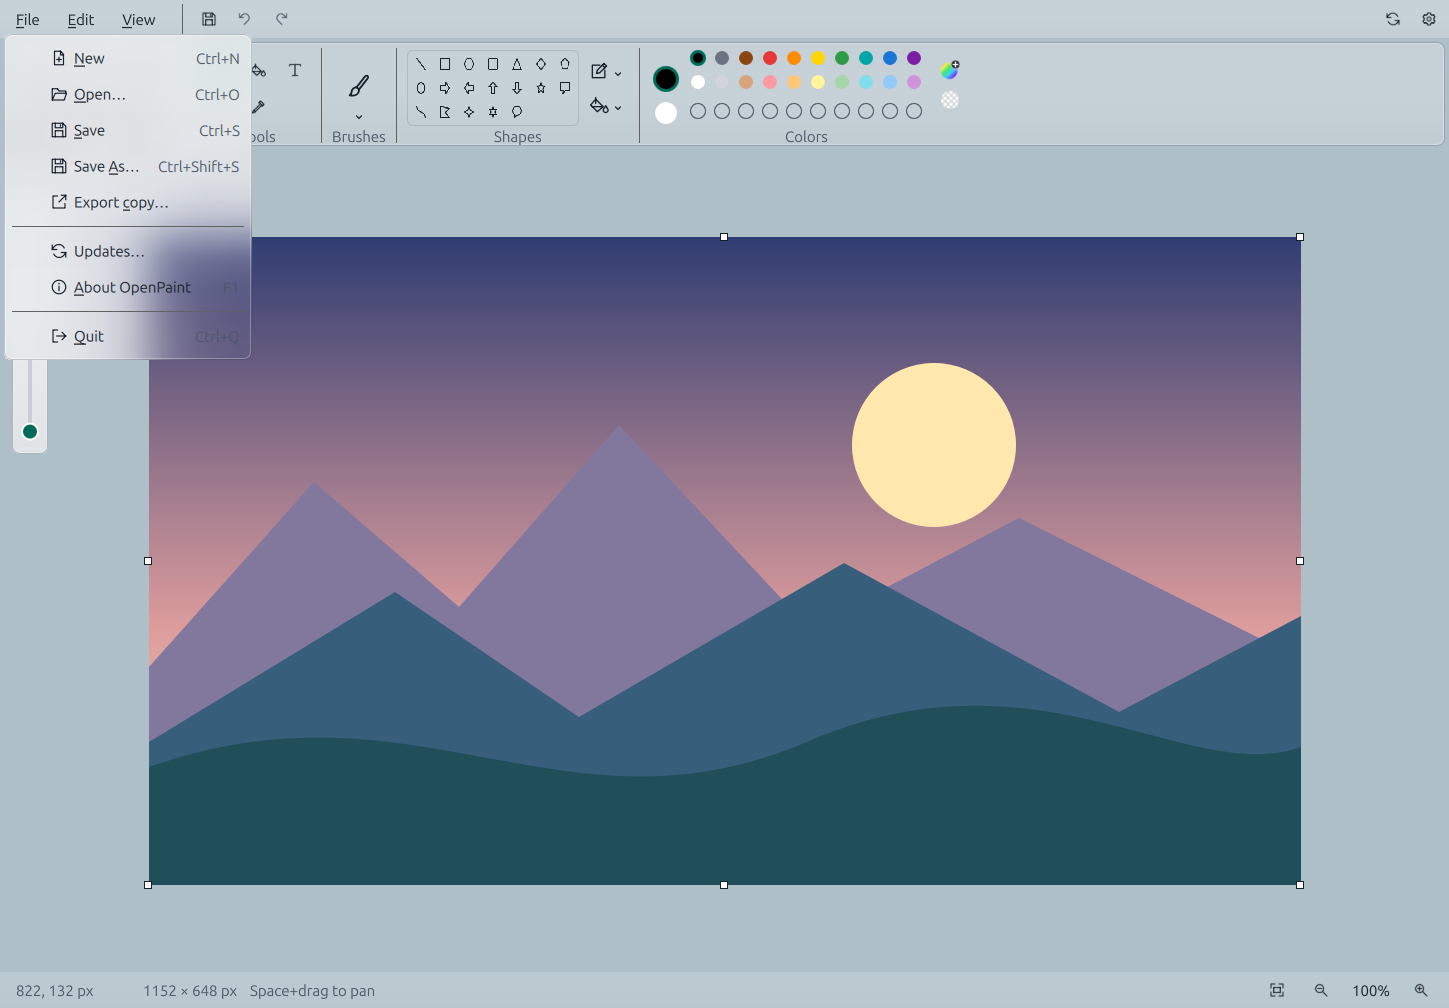
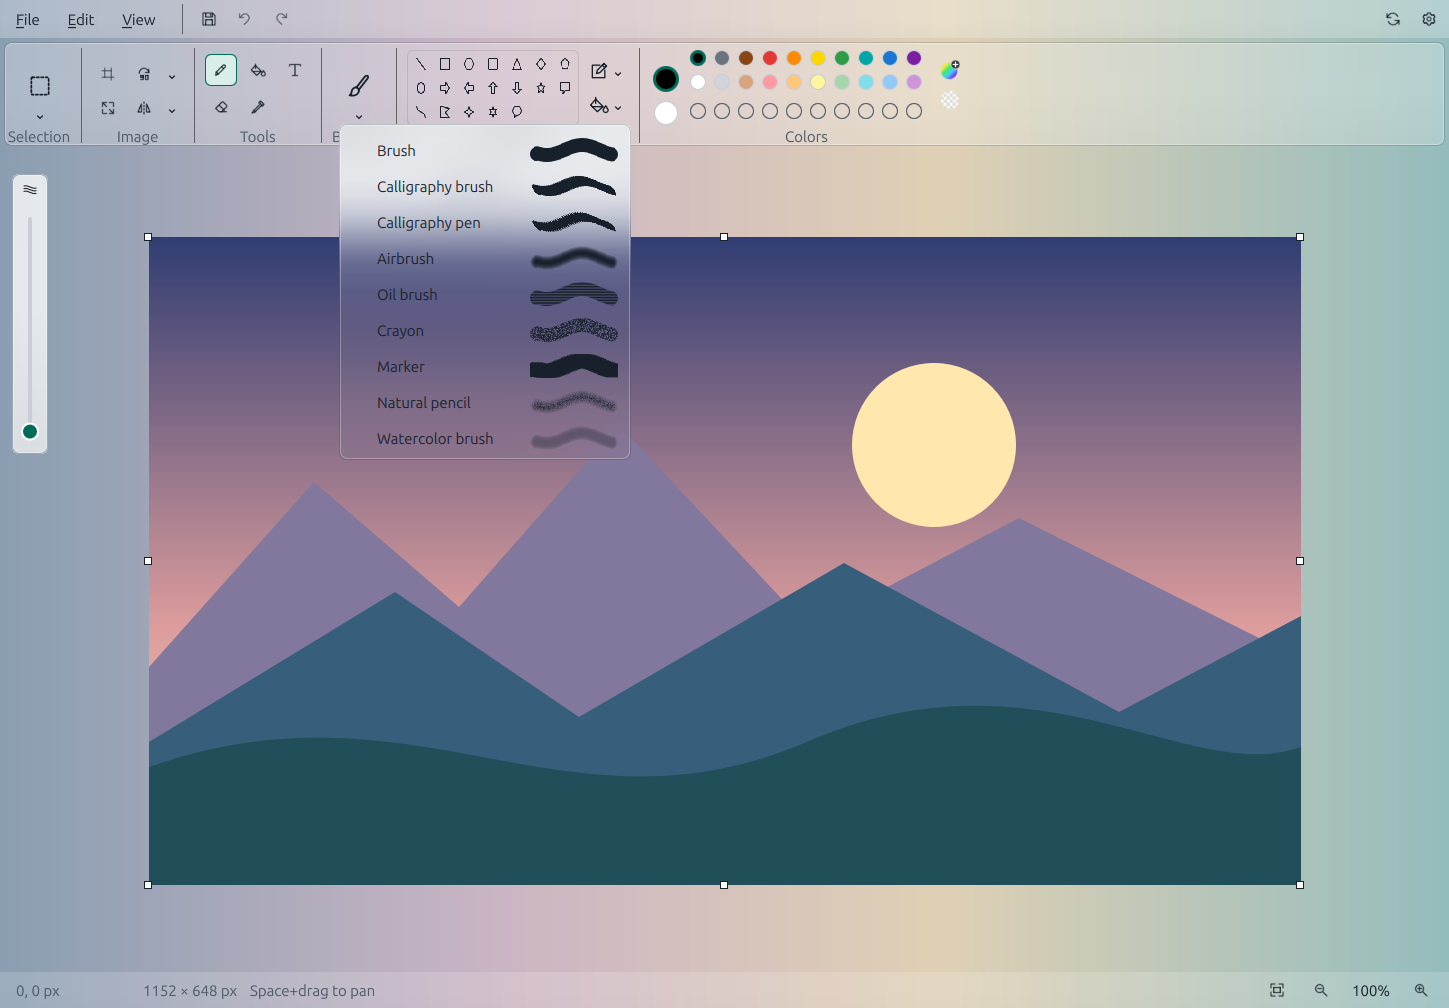
Polish frosted controls and persist theme preferences

diff --git a/qml/Main.qml b/qml/Main.qml
@@ -443,7 +443,7 @@ ApplicationWindow {
             text: qsTr("&System")
             checkable: true
             checked: Theme.mode === 0
-            onTriggered: Theme.mode = 0
+            onTriggered: Appearance.themeMode = 0
         }
         Action {
             id: lightThemeAction
@@ -452,7 +452,7 @@ ApplicationWindow {
             text: qsTr("&Light")
             checkable: true
             checked: Theme.mode === 1
-            onTriggered: Theme.mode = 1
+            onTriggered: Appearance.themeMode = 1
         }
         Action {
             id: darkThemeAction
@@ -461,7 +461,7 @@ ApplicationWindow {
             text: qsTr("&Dark")
             checkable: true
             checked: Theme.mode === 2
-            onTriggered: Theme.mode = 2
+            onTriggered: Appearance.themeMode = 2
         }
     }
 
@@ -1354,46 +1354,6 @@ ApplicationWindow {
         z: 2
         enabled: !editor.busy
         property real panelHeight: Math.max(120, Math.min(280, (parent.height - 64) / 2))
-        GlassSurface {
-            objectName: "fillControlsSurface"
-            visible: editor.tool === Editor.Fill
-            width: 132
-            height: fillControls.implicitHeight + 16
-            radius: Theme.surfaceRadius
-            MouseArea {
-                anchors.fill: parent
-                acceptedButtons: Qt.AllButtons
-                onWheel: wheel => wheel.accepted = true
-            }
-            ColumnLayout {
-                id: fillControls
-                anchors.fill: parent
-                anchors.margins: 8
-                Label {
-                    text: qsTr("Fill tolerance")
-                    color: Theme.text
-                }
-                PaintSpinBox {
-                    objectName: "fillTolerance"
-                    visible: editor.tool === Editor.Fill
-                    from: 0
-                    to: 255
-                    value: editor.tolerance
-                    onValueModified: editor.tolerance = value
-                    Accessible.name: qsTr("Fill tolerance")
-                    implicitWidth: 104
-                }
-                PaintCheckBox {
-                    objectName: "fillSmoothEdges"
-                    text: qsTr("Smooth edges")
-                    visible: editor.tool === Editor.Fill
-                    checked: editor.fillSmoothEdges
-                    onToggled: editor.fillSmoothEdges = checked
-                    Accessible.name: qsTr("Smooth same-color fill edges")
-                }
-            }
-        }
-
         ToolSlider {
             visible: editor.tool === Editor.Pencil || editor.tool === Editor.Brush || editor.tool === Editor.Eraser || editor.tool === Editor.Shape
             height: parent.panelHeight

diff --git a/qml/UpdatesDialog.qml b/qml/UpdatesDialog.qml
@@ -25,7 +25,7 @@ PaintDialog {
         Label {
             objectName: "updateIdentity"
             text: qsTr("%1 · %2").arg(AppInfo.channel).arg(AppInfo.installation)
-            color: Theme.secondaryText
+            color: Theme.text
         }
         Label {
             text: AppInfo.instructions
@@ -39,7 +39,7 @@ PaintDialog {
             textFormat: Text.PlainText
             Layout.fillWidth: true
             wrapMode: Text.WordWrap
-            color: Theme.secondaryText
+            color: Theme.text
         }
         RowLayout {
             PaintButton {
@@ -58,7 +58,7 @@ PaintDialog {
             text: qsTr("Checks api.github.com for stable releases. GitHub receives your IP address and ordinary request metadata; no artwork or document information is sent.")
             Layout.fillWidth: true
             wrapMode: Text.WordWrap
-            color: Theme.secondaryText
+            color: Theme.text
         }
         PaintCheckBox {
             objectName: "automaticReleaseChecks"
@@ -71,7 +71,7 @@ PaintDialog {
             text: qsTr("Updates are downloaded and installed manually. A GitHub release may not yet be available in your package manager.")
             Layout.fillWidth: true
             wrapMode: Text.WordWrap
-            color: Theme.secondaryText
+            color: Theme.text
         }
         PaintButton {
             objectName: "viewReleasesButton"
@@ -85,7 +85,7 @@ PaintDialog {
             text: qsTr("Opens GitHub in your browser. GitHub receives ordinary browser request information.")
             Layout.fillWidth: true
             wrapMode: Text.WordWrap
-            color: Theme.secondaryText
+            color: Theme.text
         }
         Label {
             text: AppInfo.releaseUrl.toString()

diff --git a/qml/InlineText.qml b/qml/InlineText.qml
@@ -66,10 +66,26 @@ Rectangle {
         }
         Accessible.name: qsTr("Text on canvas")
         cursorDelegate: Rectangle {
+            id: caret
+            objectName: "textCaret"
+            property bool blinkOn: true
+            Timer {
+                interval: 500
+                repeat: true
+                running: input.activeFocus && box.editor.textReady
+                onTriggered: caret.blinkOn = !caret.blinkOn
+                onRunningChanged: caret.blinkOn = true
+            }
+            Connections {
+                target: input
+                function onCursorPositionChanged() {
+                    caret.blinkOn = true;
+                }
+            }
             width: 1
-            height: input.cursorRectangle.height
+            height: Math.max(1, input.font.pixelSize)
             color: Theme.accent
-            visible: input.cursorVisible
+            visible: input.activeFocus && input.selectionStart === input.selectionEnd && blinkOn
         }
     }
     Rectangle {

diff --git a/qml/GlassSurface.qml b/qml/GlassSurface.qml
@@ -19,7 +19,7 @@ Rectangle {
     // Fixed bars already sit on a tint. Over artwork, retain enough light material
     // to keep dark labels readable even when the blurred source is black.
     readonly property real lightPopupTint: menuSurface ? Math.pow(surfaceAlpha, 5) : 0.18 + 0.82 * surfaceAlpha * surfaceAlpha * surfaceAlpha
-    readonly property real tintAlpha: Theme.dark ? surfaceAlpha : opaqueBackdrop ? lightPopupTint : raisedSurface ? 0.45 + 0.55 * surfaceAlpha * surfaceAlpha : Math.pow(surfaceAlpha, baseTintPower)
+    readonly property real tintAlpha: Theme.dark ? (opaqueBackdrop ? Math.max(0.72, surfaceAlpha) : surfaceAlpha) : opaqueBackdrop ? lightPopupTint : raisedSurface ? 0.45 + 0.55 * surfaceAlpha * surfaceAlpha : Math.pow(surfaceAlpha, baseTintPower)
     radius: Theme.surfaceRadius
     color: Theme.panel
     border.color: Appearance.glassEnabled ? (Theme.dark ? "#687887" : "#383D454D") : Theme.divider

diff --git a/qml/Theme.qml b/qml/Theme.qml
@@ -2,16 +2,17 @@
 pragma Singleton
 
 import QtQuick
+import OpenPaint
 
 QtObject {
-    // 0 follows the desktop, 1 is light, 2 is dark. Session-only in this preview.
+    // 0 follows the desktop, 1 is light, 2 is dark. Persisted with appearance preferences.
     readonly property int controlRadius: 6
     readonly property int surfaceRadius: 8
     readonly property int dialogRadius: 12
     readonly property color hover: dark ? "#343B45" : "#E9EDF2"
     readonly property color pressed: dark ? "#46515E" : "#D9E0E8"
     readonly property color selected: dark ? "#294C45" : "#D9EEE8"
-    property int mode: 0
+    readonly property int mode: Appearance.themeMode
     readonly property bool dark: mode === 2 || (mode === 0 && Application.styleHints.colorScheme === Qt.ColorScheme.Dark)
     readonly property color window: dark ? "#181B20" : "#F5F6F8"
     readonly property color panel: dark ? "#22262D" : "#FFFFFF"

diff --git a/qml/PaintButton.qml b/qml/PaintButton.qml
@@ -14,7 +14,7 @@ Button {
     palette.dark: Theme.selected
     background: Rectangle {
         radius: Theme.controlRadius
-        color: control.down ? Theme.pressed : control.checked || control.highlighted ? Theme.selected : control.hovered ? Theme.hover : control.flat ? "transparent" : Theme.panel
+        color: control.down ? Theme.pressed : control.checked || control.highlighted ? Theme.selected : control.hovered ? Theme.hover : control.flat ? "transparent" : Theme.dark && Appearance.glassEnabled ? "#414B58" : Theme.panel
         border.width: control.visualFocus ? 2 : control.flat && !control.checked && !control.highlighted ? 0 : 1
         border.color: control.visualFocus ? Theme.accent : control.checked ? Theme.accent : Theme.divider
         opacity: control.enabled ? 1 : 0.5

diff --git a/qml/PaintCheckBox.qml b/qml/PaintCheckBox.qml
@@ -6,6 +6,9 @@ import OpenPaint
 CheckBox {
     id: control
     implicitHeight: 32
+    palette.windowText: Theme.text
+    palette.text: Theme.text
+    palette.buttonText: Theme.text
     indicator: Rectangle {
         x: control.leftPadding
         y: (control.height - height) / 2

diff --git a/tests/ui/tst_shell.cpp b/tests/ui/tst_shell.cpp
@@ -135,9 +135,7 @@ class ShellTest : public QObject {
         editor->setTool(Editor::Tool::Fill);
         auto* size = window->findChild<QQuickItem*>(QStringLiteral("strokeSize"));
         QVERIFY(size && !size->isVisible());
-        QVERIFY(tabTo("fillTolerance"));
-        keyClick(Qt::Key_Up);
-        QCOMPARE(editor->tolerance, 1);
+        QVERIFY(!window->findChild<QObject*>("fillTolerance"));
         QCOMPARE(editor->brushSize, 4);
         QCOMPARE(editor->opacity, 99);
     }
@@ -675,6 +673,11 @@ class ShellTest : public QObject {
         QTest::mouseRelease(window, Qt::LeftButton, {}, at({400, 180}));
         QTRY_VERIFY(editor->textReady());
         QTRY_VERIFY(input->hasActiveFocus());
+        QTRY_VERIFY(!visualItems(input, "textCaret").isEmpty());
+        auto* caret = visualItems(input, "textCaret").first();
+        QVERIFY(caret->height() > 0);
+        const bool firstBlink = caret->property("blinkOn").toBool();
+        QTRY_VERIFY(caret->property("blinkOn").toBool() != firstBlink);
         QVERIFY(editor->textRect().width() >= 319);
         for (char c : std::string("OpenPaint"))
             keyClick(c);
@@ -1291,8 +1294,23 @@ class ShellTest : public QObject {
         appearance->setSurfaceOpacity(54);
         QVERIFY(QMetaObject::invokeMethod(window->findChild<QObject*>("lightThemeAction"),
                                           "trigger", Q_ARG(QObject*, nullptr)));
-        // Neutral demo backing for the alpha window; never sample the desktop.
-        window->setColor(QColor("#72919F"));
+        // Staged multicolor backdrop, generated locally without desktop capture.
+        QQmlComponent backdrop(engine.get());
+        backdrop.setData(R"QML(import QtQuick
+            Rectangle {
+                width: 1449; height: 1008; z: -100
+                gradient: Gradient {
+                    orientation: Gradient.Horizontal
+                    GradientStop { position: 0; color: "#234A70" }
+                    GradientStop { position: 0.35; color: "#B17D98" }
+                    GradientStop { position: 0.65; color: "#DDB777" }
+                    GradientStop { position: 1; color: "#398B89" }
+                }
+            })QML",
+                         QUrl());
+        QScopedPointer<QObject> backing(backdrop.create());
+        QVERIFY(backing);
+        qobject_cast<QQuickItem*>(backing.data())->setParentItem(window->contentItem());
         QImage art(1152, 648, QImage::Format_RGB32);
         QPainter painter(&art);
         painter.setRenderHint(QPainter::Antialiasing);
@@ -1339,7 +1357,7 @@ class ShellTest : public QObject {
         editor->openFile(QUrl::fromLocalFile(path));
         QTRY_VERIFY(!editor->loading());
         QCOMPARE(editor->image().size(), art.size());
-        auto* menu = window->findChild<QObject*>("fileMenu");
+        auto* menu = window->findChild<QObject*>("brushesMenu");
         QVERIFY(QMetaObject::invokeMethod(menu, "open"));
         QTRY_VERIFY(menu->property("visible").toBool());
         QTest::qWait(250);
@@ -1419,7 +1437,6 @@ class ShellTest : public QObject {
     void actualFloatingPanelBlur_data() {
         QTest::addColumn<bool>("fillPanel");
         QTest::newRow("size") << false;
-        QTest::newRow("fill") << true;
     }
     void actualFloatingPanelBlur() {
         QFETCH(bool, fillPanel);
@@ -1488,7 +1505,7 @@ class ShellTest : public QObject {
                 Component.onCompleted: {
                     Appearance.glassEnabled = true;
                     Appearance.surfaceOpacity = 40;
-                    Theme.mode = 1;
+                    Appearance.themeMode = 1;
                 }
                 Item {
                     id: stripes
@@ -1697,12 +1714,7 @@ class ShellTest : public QObject {
     void fillOptionsLayout() {
         auto* editor = window->findChild<Editor*>(QStringLiteral("editor"));
         editor->setTool(Editor::Tool::Fill);
-        QVERIFY(editor->fillSmoothEdges);
-        QVERIFY(tabTo("fillSmoothEdges"));
-        keyClick(Qt::Key_Space);
-        QVERIFY(!editor->fillSmoothEdges);
-        keyClick(Qt::Key_Space);
-        QVERIFY(editor->fillSmoothEdges);
+        QVERIFY(!window->findChild<QObject*>("fillControlsSurface"));
         window->setWidth(1024);
         window->setHeight(640);
         QVERIFY(QMetaObject::invokeMethod(
@@ -1743,9 +1755,7 @@ class ShellTest : public QObject {
         QVERIFY(tabTo("fillButton"));
         keyClick(Qt::Key_Space);
         QCOMPARE(editor->tool(), Editor::Tool::Fill);
-        QVERIFY(tabTo("fillTolerance"));
-        keyClick(Qt::Key_Up);
-        QCOMPARE(editor->tolerance, 1);
+        QVERIFY(!window->findChild<QObject*>("fillTolerance"));
         QVERIFY(tabTo("pencilButton"));
         keyClick(Qt::Key_Space);
         QVERIFY(tabTo("editColorsButton"));

diff --git a/src/platform/Appearance.cpp b/src/platform/Appearance.cpp
@@ -7,12 +7,14 @@ Appearance::Appearance(const QString& file, QObject* parent) : QObject(parent) {
                     ? std::make_unique<QSettings>(QSettings::IniFormat, QSettings::UserScope,
                                                   "OpenPaint", "OpenPaint")
                     : std::make_unique<QSettings>(file, QSettings::IniFormat);
+    themeMode_ = std::clamp(settings_->value("appearance/theme", 0).toInt(), 0, 2);
     glassEnabled_ = settings_->value("appearance/glass", true).toBool();
     bool ok = false;
     const int value = settings_->value("appearance/opacity", 85).toInt(&ok);
     surfaceOpacity_ = ok ? std::clamp(value, 40, 100) : 85;
 }
 void Appearance::save() {
+    settings_->setValue("appearance/theme", themeMode_);
     settings_->setValue("appearance/glass", glassEnabled_);
     settings_->setValue("appearance/opacity", surfaceOpacity_);
     settings_->sync();
@@ -34,5 +36,13 @@ void Appearance::setSurfaceOpacity(int opacity) {
 void Appearance::restoreDefaults() {
     glassEnabled_ = true;
     surfaceOpacity_ = 85;
+    save();
+}
+
+void Appearance::setThemeMode(int mode) {
+    mode = std::clamp(mode, 0, 2);
+    if (mode == themeMode_)
+        return;
+    themeMode_ = mode;
     save();
 }

diff --git a/tests/unit/tst_editor.cpp b/tests/unit/tst_editor.cpp
@@ -13,6 +13,27 @@ class SampleEditor : public Editor {
 class EditorTest : public QObject {
     Q_OBJECT
   private slots:
+    void fillAlwaysSmoothAndExact() {
+        SampleEditor editor;
+        QImage fixture(12, 8, QImage::Format_ARGB32_Premultiplied);
+        fixture.fill(Qt::white);
+        for (int y = 0; y < fixture.height(); ++y) {
+            fixture.setPixelColor(5, y, QColor(128, 128, 128));
+            fixture.setPixelColor(6, y, Qt::black);
+        }
+        fixture.setPixelColor(2, 2, QColor(255, 254, 255));
+        fixture.setColorSpace(QColorSpace::SRgb);
+        editor.reset(fixture);
+        editor.primary = Qt::black;
+        editor.setTool(Editor::Tool::Fill);
+        editor.begin({0, 0}, false);
+        QTRY_VERIFY(!editor.busy());
+        QCOMPARE(editor.image().pixelColor(5, 3), QColor(Qt::black));
+        QCOMPARE(editor.image().pixelColor(10, 3), QColor(Qt::white));
+        QCOMPARE(editor.image().pixelColor(2, 2), QColor(255, 254, 255));
+        editor.undo();
+        QCOMPARE(editor.image(), fixture);
+    }
     void switchingToolsClearsSelection() {
         Editor editor;
         editor.selectRect(10, 10, 30, 30);

diff --git a/src/app/Editor.h b/src/app/Editor.h
@@ -49,8 +49,6 @@ class Editor : public QObject {
     Q_PROPERTY(bool shapeFill MEMBER shapeFill NOTIFY settingsChanged)
     Q_PROPERTY(int brushStyle MEMBER brushStyle NOTIFY settingsChanged)
     Q_PROPERTY(int opacity MEMBER opacity NOTIFY settingsChanged)
-    Q_PROPERTY(int tolerance MEMBER tolerance NOTIFY settingsChanged)
-    Q_PROPERTY(bool fillSmoothEdges MEMBER fillSmoothEdges NOTIFY settingsChanged)
     Q_PROPERTY(bool loading READ loading NOTIFY changed)
     Q_PROPERTY(QString fileName READ fileName NOTIFY changed)
     Q_PROPERTY(QUrl fileUrl READ fileUrl NOTIFY changed)
@@ -217,8 +215,7 @@ class Editor : public QObject {
     Q_INVOKABLE void undo();
     Q_INVOKABLE void redo();
     QColor primary = Qt::black, secondary = Qt::white;
-    bool fillSmoothEdges = true;
-    int brushSize = 3, tolerance = 0, brushStyle = 0, opacity = 100;
+    int brushSize = 3, brushStyle = 0, opacity = 100;
     bool freeFormSelection = false, transparentSelection = false;
     bool transparentEraser = false, shapeOutline = true, shapeFill = false;
     int shapeKind = 0, curveBend1 = 30, curveBend2 = -30;

diff --git a/src/platform/Appearance.h b/src/platform/Appearance.h
@@ -11,6 +11,7 @@ class Appearance : public QObject {
     QML_SINGLETON
     Q_PROPERTY(bool glassEnabled READ glassEnabled WRITE setGlassEnabled NOTIFY changed)
     Q_PROPERTY(int surfaceOpacity READ surfaceOpacity WRITE setSurfaceOpacity NOTIFY changed)
+    Q_PROPERTY(int themeMode READ themeMode WRITE setThemeMode NOTIFY changed)
   public:
     explicit Appearance(QObject* parent = nullptr);
     explicit Appearance(const QString& settingsFile, QObject* parent = nullptr);
@@ -20,6 +21,10 @@ class Appearance : public QObject {
     int surfaceOpacity() const {
         return surfaceOpacity_;
     }
+    int themeMode() const {
+        return themeMode_;
+    }
+    void setThemeMode(int mode);
     void setGlassEnabled(bool enabled);
     void setSurfaceOpacity(int opacity);
     Q_INVOKABLE void restoreDefaults();
@@ -31,4 +36,5 @@ class Appearance : public QObject {
     std::unique_ptr<QSettings> settings_;
     bool glassEnabled_ = true;
     int surfaceOpacity_ = 85;
+    int themeMode_ = 0;
 };
